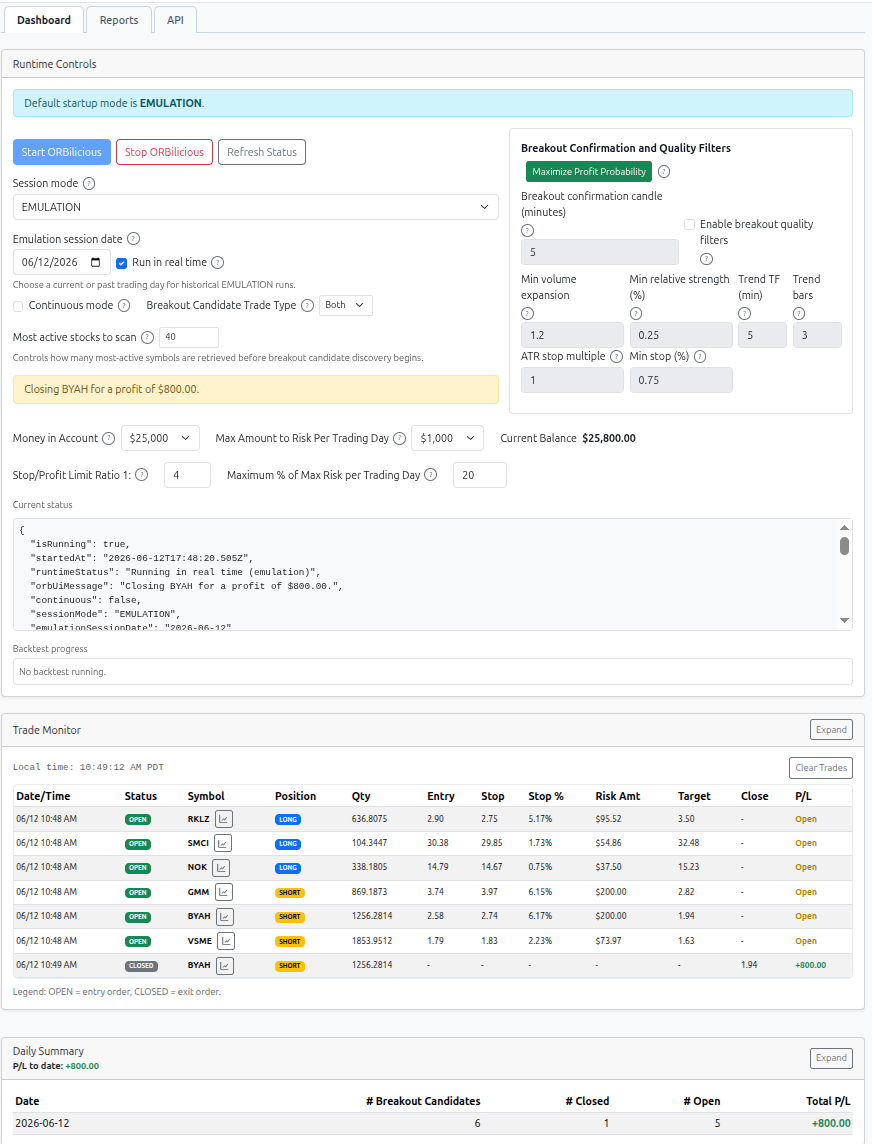
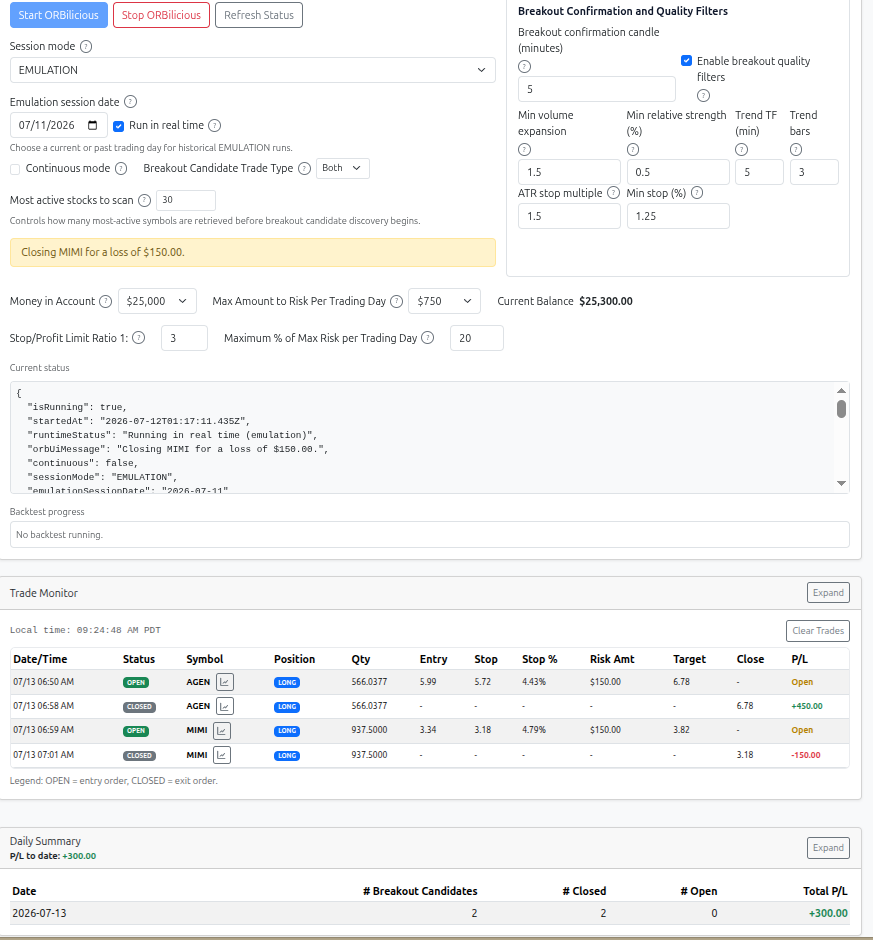
fixed start button bug

diff --git a/src/web/public/app.js b/src/web/public/app.js
@@ -916,6 +916,8 @@ function formatCurrency(value) {
 }
 
 function showStartConfirmationPane() {
+    startBtn.disabled = true;
+
     const session = sessionMode.value || '-';
     const isHistoricalMode = session === 'EMULATION' || session === 'REPLAY';
     const emulationDate = isHistoricalMode && emulationDateInput.value ? emulationDateInput.value : 'N/A';
@@ -1980,7 +1982,10 @@ confirmStartBtn.addEventListener('click', async () => {
     hideStartConfirmationPane();
     await submitStartOrbilicious();
 });
-cancelStartBtn.addEventListener('click', hideStartConfirmationPane);
+cancelStartBtn.addEventListener('click', () => {
+    hideStartConfirmationPane();
+    startBtn.disabled = false;
+});
 stopBtn.addEventListener('click', stopOrbilicious);
 refreshStatusBtn.addEventListener('click', refreshStatus);
 generateReportBtn.addEventListener('click', generateSelectedReport);
